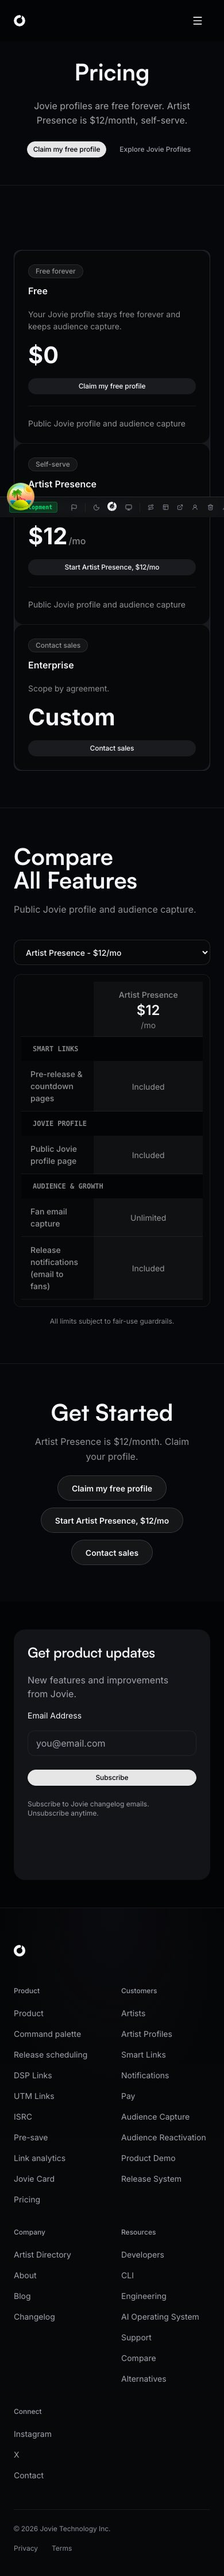
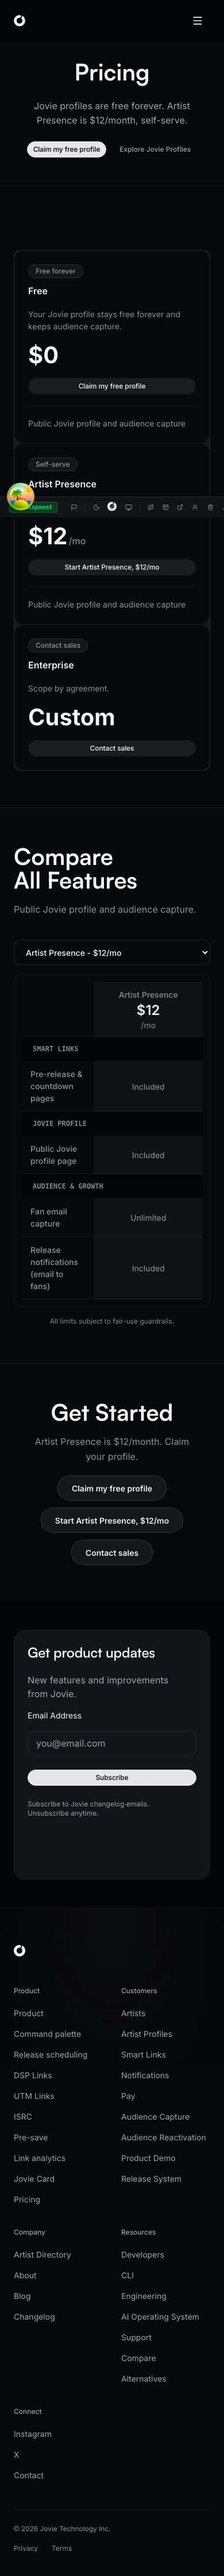
docs(pricing): shrink /pricing renewal captures under the tree byte budget

diff --git a/docs/screenshots/mvp-pricing-audit-1029/README.md b/docs/screenshots/mvp-pricing-audit-1029/README.md
@@ -13,6 +13,6 @@ local source/browser evidence, not production:
 - `tests/e2e/pricing.spec.ts`, chromium project: **11/11 passed**. Covers comparison geometry and plan
   selection from 320 to 1440px, accessibility, offer labels and CTA destinations, and the new row
   assertions.
-- Full-page captures: `pricing-1440.jpg`, `pricing-390.jpg`. There is no horizontal overflow at either width.
+- Full-page captures: `pricing-1440.jpg` (captured at 1440, stored downscaled to 960 wide) and `pricing-390.jpg`, both compressed to fit the repo byte budget. There is no horizontal overflow at either width.
 - Rendered comparison rows at both widths: Pre-release & countdown pages, Public Jovie profile page, Fan
   email capture, Release notifications (email to fans).
